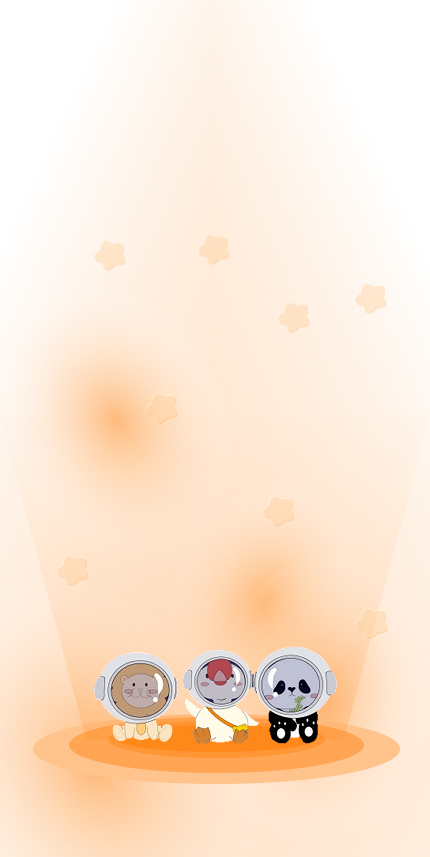
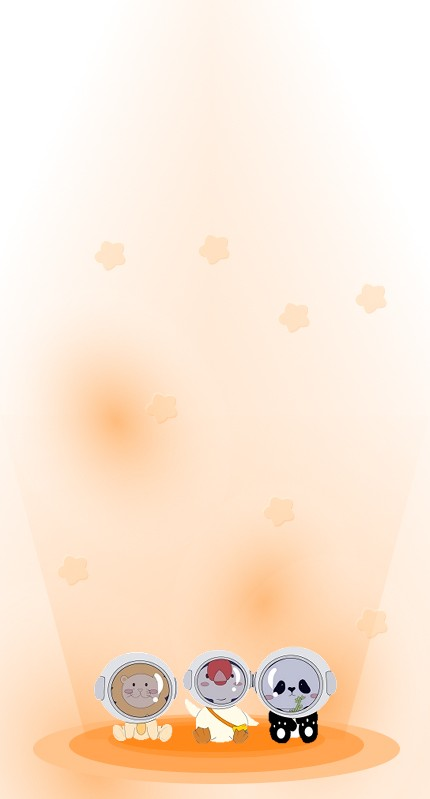
update cooperator-nav

diff --git a/src/components/Cooperator/CooperatorNavLayout.vue b/src/components/Cooperator/CooperatorNavLayout.vue
@@ -10,145 +10,245 @@
 </template>
 
 <script setup>
-import { useRouter } from 'vue-router';
-import backgroundImage from '@/assets/imgs/coop-nav-bg-web.jpg';
-import buttonBgImage from '@/assets/imgs/logos/orangeStar.png';
+import { useRouter } from "vue-router";
+import { ref, computed, onMounted, onBeforeUnmount } from "vue";
+import backgroundImageWeb from "@/assets/imgs/coop-nav-bg-web.jpg";
+import backgroundImageMobile from "@/assets/imgs/coop-nav-bg-mobile.jpg";
+import buttonBgImage from "@/assets/imgs/logos/orangeStar.png";
 
 const router = useRouter();
-
-const bgStyle = `url(${backgroundImage})`;
-const buttonStyle = {backgroundImage: `url(${buttonBgImage})`};
+const isMobile = ref(window.innerWidth <= 700);
+const bgStyle = computed(() => {
+  return `url(${isMobile.value ? backgroundImageMobile : backgroundImageWeb})`;
+});
+const buttonStyle = { backgroundImage: `url(${buttonBgImage})` };
 
 const navigateToCard = (id) => {
   router.push({
-    path: '/cooperator-info',
-    hash: `#coorp-${id}`
+    path: "/cooperator-info",
+    hash: `#coorp-${id}`,
   });
 };
 
-const starStyles = {
-  1: { transform: 'rotate(-30deg) scale(1.05)',
-    position: 'relative',
-    top: '20px',
-    left: '-40px' },
-  2: { transform: 'rotate(-15deg) scale(0.9)',
-    position: 'relative',
-    top: '-40px',
-    left: '-40px' },
-  3: { transform: 'rotate(15deg) scale(0.95)',
-    position: 'relative',
-    top: '-25px',
-    left: '-15px' },
-  4: { transform: 'rotate(30deg) scale(1)',
-    position: 'relative',
-    top: '10px',
-    left: '30px'},
-  5: { transform: 'rotate(-25deg) scale(0.9)',
-    position: 'relative',
-    top: '-25px',
-    left: '-30px' },
-  6: { transform: 'rotate(-28deg) scale(0.95)',
-    position: 'relative',
-    top: '-65px',
-    left: '-40px' },
-  7: { transform: 'rotate(28deg) scale(0.95)',
-    position: 'relative',
-    top: '-65px'},
-  8: { transform: 'rotate(25deg) scale(0.9)',
-    position: 'relative',
-    top: '5px'}
+const starStylesDesktop = {
+  1: {
+    transform: "rotate(-30deg) scale(1.05)",
+    position: "relative",
+    top: "20px",
+    left: "-40px",
+  },
+  2: {
+    transform: "rotate(-15deg) scale(0.9)",
+    position: "relative",
+    top: "-40px",
+    left: "-40px",
+  },
+  3: {
+    transform: "rotate(15deg) scale(0.95)",
+    position: "relative",
+    top: "-25px",
+    left: "-15px",
+  },
+  4: {
+    transform: "rotate(30deg) scale(1)",
+    position: "relative",
+    top: "10px",
+    left: "30px",
+  },
+  5: {
+    transform: "rotate(-25deg) scale(0.9)",
+    position: "relative",
+    top: "-25px",
+    left: "-30px",
+  },
+  6: {
+    transform: "rotate(-28deg) scale(0.95)",
+    position: "relative",
+    top: "-65px",
+    left: "-40px",
+  },
+  7: {
+    transform: "rotate(28deg) scale(0.95)",
+    position: "relative",
+    top: "-65px",
+  },
+  8: {
+    transform: "rotate(25deg) scale(0.9)",
+    position: "relative",
+    top: "5px",
+  },
 };
+
+const starStylesMobile = {
+  1: {
+    transform: "rotate(-27deg) scale(0.95)",
+    position: "relative",
+    top: "20px",
+    left: "-10px",
+  },
+  2: {
+    transform: "rotate(27deg) scale(0.8)",
+    position: "relative",
+    top: "0px",
+    left: "10px",
+  },
+  3: {
+    transform: "rotate(15deg) scale(0.85)",
+    position: "relative",
+    top: "20px",
+    left: "20px",
+  },
+  4: {
+    transform: "rotate(-19deg) scale(0.8)",
+    position: "relative",
+    top: "15px",
+    left: "0px",
+  },
+  5: {
+    transform: "rotate(-17deg) scale(0.8)",
+    position: "relative",
+    top: "0px",
+    left: "0px",
+  },
+  6: {
+    transform: "rotate(27deg) scale(0.85)",
+    position: "relative",
+    top: "20px",
+    left: "0px",
+  },
+  7: {
+    transform: "rotate(-35deg) scale(0.85)",
+    position: "relative",
+    top: "0px",
+    left: "50%",
+  },
+  8: {
+    transform: "rotate(20deg) scale(0.8)",
+    position: "relative",
+    top: "10px",
+    left: "50%",
+  },
+};
+
+console.log("isMobile:", isMobile.value);
+
+const starStyles = computed(() => {
+  return isMobile.value ? starStylesMobile : starStylesDesktop;
+});
+
+const updateIsMobile = () => {
+  isMobile.value = window.innerWidth <= 700;
+};
+
+onMounted(() => {
+  window.addEventListener("resize", updateIsMobile);
+});
+
+onBeforeUnmount(() => {
+  window.removeEventListener("resize", updateIsMobile);
+});
 </script>
 
 <style>
 .page-container {
-    min-height: 100vh;
-    background-image: v-bind(bgStyle);
-    background-size: cover;
-    background-position: center;
-    background-repeat: no-repeat;
-    display: flex;
-    justify-content: center;
-    align-items: center;
+  min-height: 100vh;
+  background-image: v-bind(bgStyle);
+  background-size: cover;
+  background-position: center;
+  background-repeat: no-repeat;
+  display: flex;
+  justify-content: center;
+  align-items: center;
 }
 
 .container {
-    padding: 2rem;
-    width: 70%;
-    max-width: 1400px;
-    margin-top: -10rem;
+  padding: 2rem;
+  width: 70%;
+  max-width: 1400px;
+  margin-top: -10rem;
 }
 
 .grid-layout {
-    display: grid;
-    grid-template-columns: repeat(4, 1fr);
-    grid-template-rows: repeat(2, 1fr);
-    gap: 3rem;
-    padding: 3rem;
+  max-width: 100%;
+  display: grid;
+  grid-template-columns: repeat(4, 1fr);
+  grid-template-rows: repeat(2, 1fr);
+  gap: 3rem;
+  padding: 3rem;
 }
 
 /* Button styling */
 .coop-button {
-    width: 95%;
-    aspect-ratio: 1;
-    padding: 1.6rem;
-    border: none;
-    background: none;
-    background-image: url('../../assets/imgs/logos/orangeStar.png');
-    background-size: contain;
-    background-position: center;
-    background-repeat: no-repeat;
-    font-size: 1rem;
-    font-weight: 600;
-    font-family: 'Noto Sans', sans-serif;
-    transition: all 0.3s ease;
-    display: flex;
-    align-items: center;
-    justify-content: center;
-    text-align: center;
-    color: white;
-    cursor: pointer;
-    background-color: transparent !important;
-    -webkit-appearance: none;
-    -moz-appearance: none;
-    appearance: none;
-    box-shadow: none;
+  width: 95%;
+  aspect-ratio: 1;
+  padding: 1.6rem;
+  border: none;
+  background: none;
+  background-image: url("../../assets/imgs/logos/orangeStar.png");
+  background-size: contain;
+  background-position: center;
+  background-repeat: no-repeat;
+  font-size: 1rem;
+  font-weight: 600;
+  font-family: "Noto Sans", sans-serif;
+  transition: all 0.3s ease;
+  display: flex;
+  align-items: center;
+  justify-content: center;
+  text-align: center;
+  color: white;
+  cursor: pointer;
+  background-color: transparent !important;
+  -webkit-appearance: none;
+  -moz-appearance: none;
+  appearance: none;
+  box-shadow: none;
 }
 
-
 .coop-button:hover {
-    transform: scale(1.05);
-    filter: brightness(1.1);
+  transform: scale(1.05);
+  filter: brightness(1.1);
 }
 
 /* Remove any background color on hover/focus/active states */
 .coop-button:hover,
 .coop-button:focus,
 .coop-button:active {
-    background-color: transparent !important;
-    outline: none;
+  background-color: transparent !important;
+  outline: none;
 }
 
 /* Responsive design */
 @media (max-width: 1024px) {
-    .grid-layout {
-        grid-template-columns: repeat(4, 1fr);
-        grid-template-rows: repeat(2, 1fr);
-        gap: 1.5rem;
-    }
+  .grid-layout {
+    gap: 1.5rem;
+    padding: 0;
+  }
 }
-
-@media (max-width: 640px) {
-    .grid-layout {
-        grid-template-columns: repeat(4, 1fr);
-        grid-template-rows: repeat(2, 1fr);
-        gap: 1rem;
-    }
-    
-    .coop-button {
-        padding: 1rem;
-        min-height: 80px;
-        font-size: 1rem;
-    }
+@media (max-width: 815px) {
+  .grid-layout {
+    gap: 1rem;
+  }
+}
+@media (max-width: 700px) {
+  .page-container {
+    background-position: bottom;
+  }
+  .container {
+    padding: 1rem;
+    width: 90%;
+  }
+  .grid-layout {
+    grid-template-columns: repeat(3, 1fr);
+    grid-template-rows: repeat(3, 1fr);
+    gap: 1rem;
+    padding: 0;
+    margin-top: 5rem;
+  }
+  .coop-button {
+    padding: 1rem;
+    min-height: 80px;
+    font-size: 1rem;
+  }
 }
 </style>

diff --git a/src/router/index.js b/src/router/index.js
@@ -31,8 +31,8 @@ const routes = [
     component: () => import("@/views/NotFound.vue"),
   },
   {
-    path: '/cooperator-nav', 
-    name: 'CooperatorNavigation',
+    path: "/partners-activities",
+    name: "PartnersActivitiesPage",
     component: () => import("@/views/CooperatorNavigation.vue"),
   },
   {
